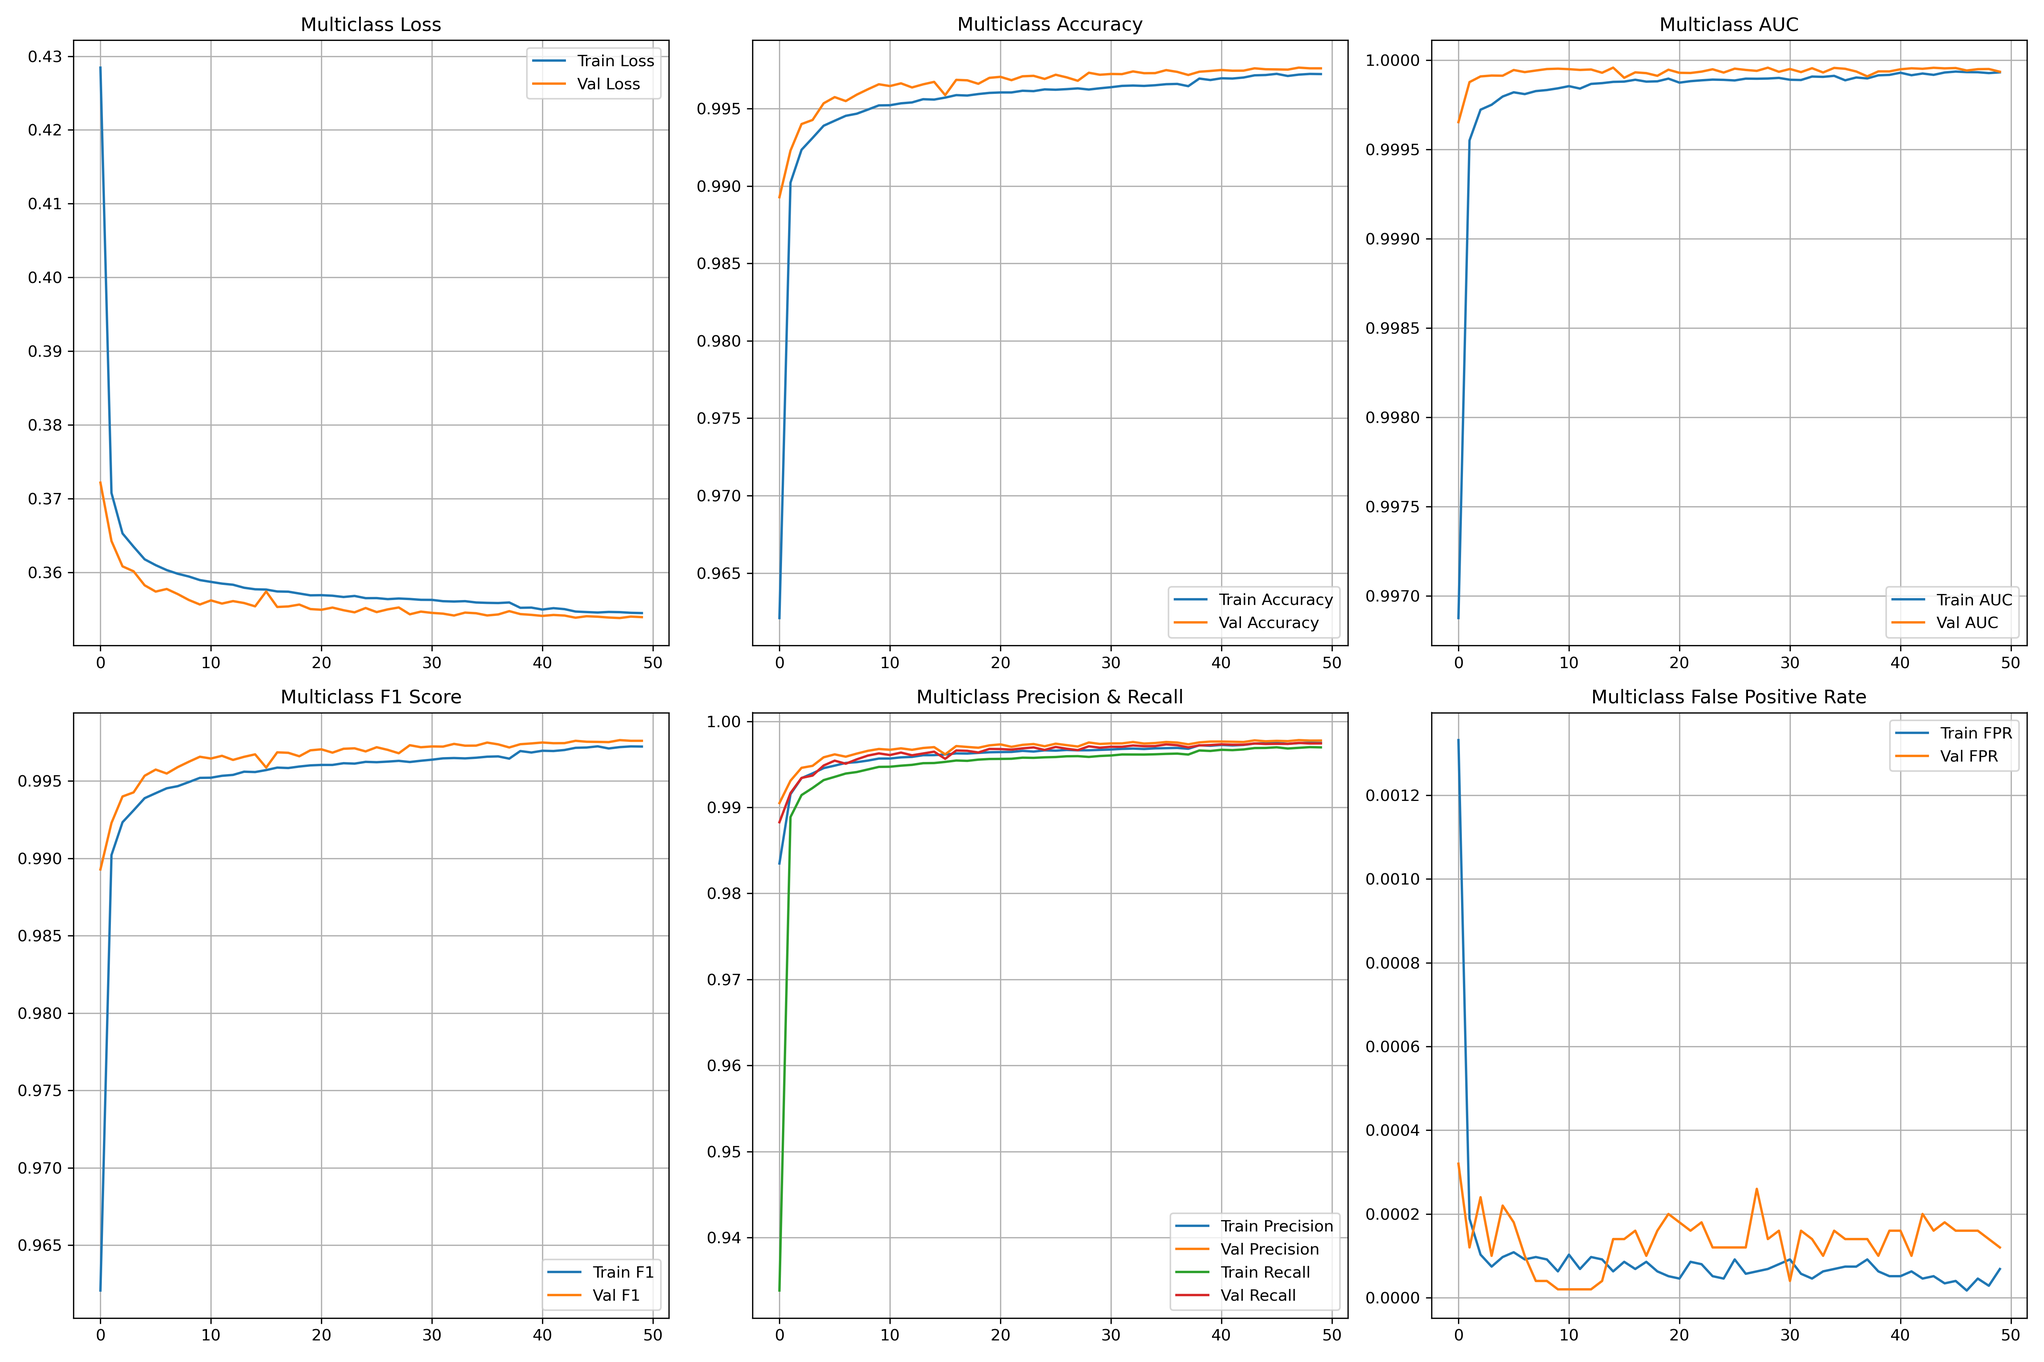
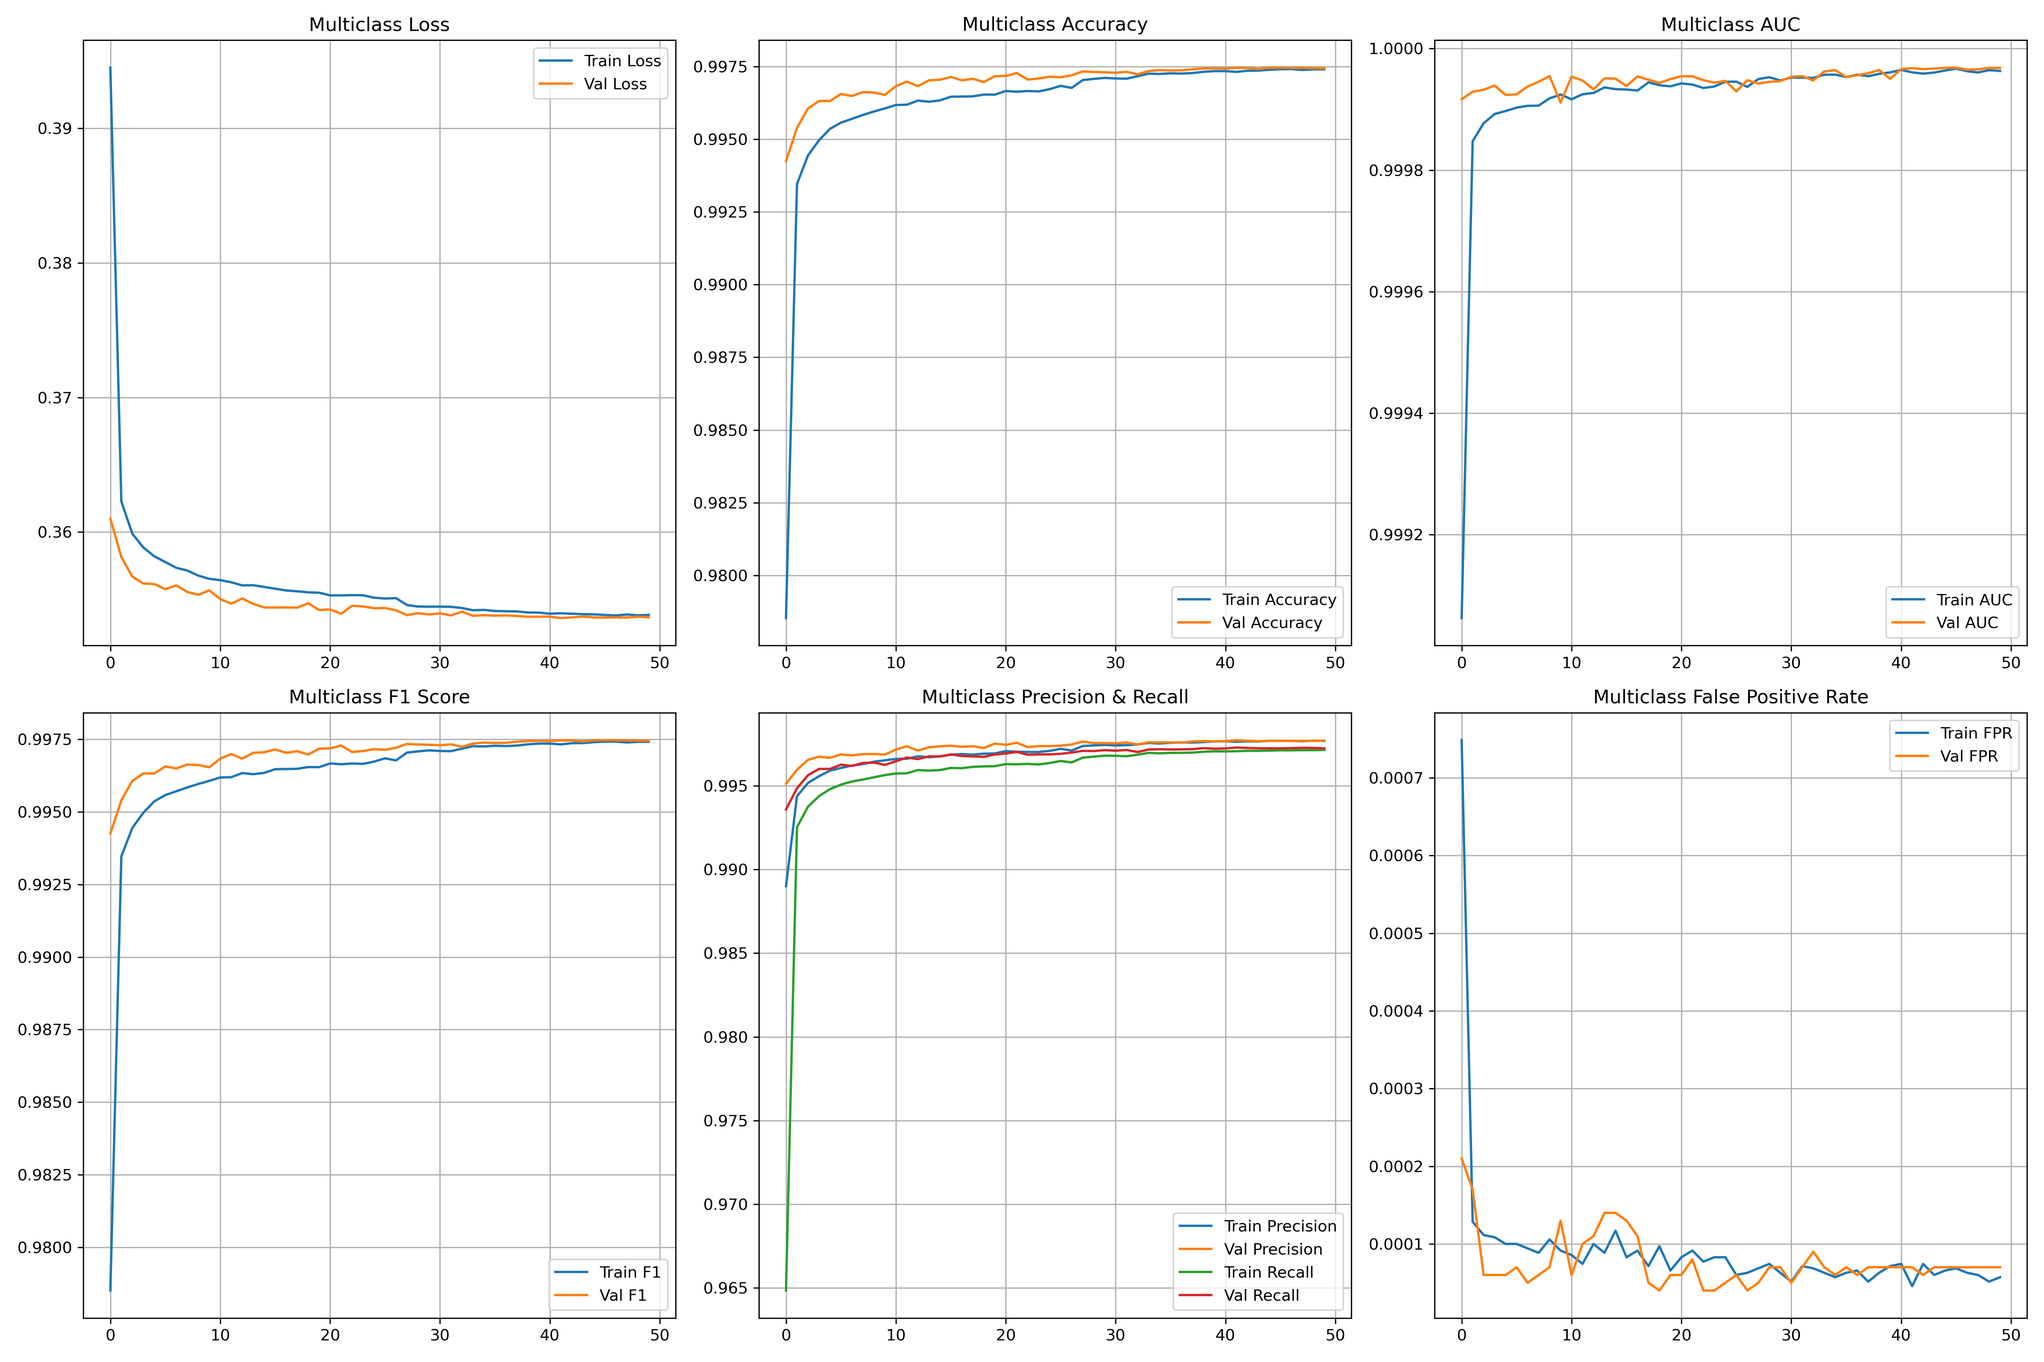
Refactor data splitting logic to support "max" size option and improve CSV saving functionality, updated images

diff --git a/main-binary.py b/main-binary.py
@@ -7,8 +7,6 @@ from pathlib import Path
 import random
 from binaryFalsePositiveRate import BinaryFalsePositiveRate
 
-
-
 # Set up logging
 logging.basicConfig(level=logging.INFO, format='%(asctime)s - %(levelname)s - %(message)s')
 logger = logging.getLogger(__name__)
@@ -17,7 +15,7 @@ logger = logging.getLogger(__name__)
 class Config:
     # Dataset parameters
     NUM_FEATURES = 39
-    NUM_LINES = 250000
+    NUM_LINES = "max"
     BATCH_SIZE = 32
     DATA_FOLDER = f'proj/datasets/sized_data/binaryclass/{NUM_LINES}_lines'
     MODEL_PATH = 'proj/models/best_binary_model.keras'
@@ -36,8 +34,6 @@ class Config:
     
 # Ensure data folder exists
 cfg = Config()
-if not os.path.exists(cfg.DATA_FOLDER):
-    raise FileNotFoundError(f"Data folder not found: {cfg.DATA_FOLDER}")
 
 def check_class_distribution(dataset):
     """Check the distribution of classes in the dataset"""
@@ -83,7 +79,7 @@ def load_dataset():
     
     logger.info(f"Found {len(csv_files)} CSV files")
     
-    # Create dataset from CSV files - important to use drop_remainder=False initially
+    # Create dataset from CSV files
     dataset = tf.data.experimental.make_csv_dataset(
         csv_files,
         batch_size=cfg.BATCH_SIZE,
@@ -118,7 +114,7 @@ def preprocess_features(features, label):
     # Explicitly set shape to remove any None dimensions
     features_tensor.set_shape([None, 1, cfg.NUM_FEATURES])
     
-    # Convert string labels to binary (0 for BENIGN, 1 for everything else)
+    # Convert string labels to binary (0 for BENIGN, 1 for other attack classes)
     label_tensor = tf.cast(tf.where(label == 'BENIGN', 0, 1), tf.float32)
     
     # Reshape label to match the expected output shape for F1Score (batch_size, 1)
@@ -207,10 +203,9 @@ def prepare_datasets():
     # Analyze dataset statistics for potential issues
     stats = analyze_dataset_stats(preprocessed_dataset.batch(100).take(10))
     
-    # Normalize features
+    # Normalize features with robust statistics (if available)
     if use_robust_stats:
         try:
-            # Use robust statistics (median/IQR) for normalization
             # Collect some samples for calculating statistics
             all_features = []
             for features, _ in preprocessed_dataset.take(10000): # subset 
@@ -223,7 +218,7 @@ def prepare_datasets():
             median = tfp.stats.percentile(feature_tensor, 50.0, axis=0)
             q75 = tfp.stats.percentile(feature_tensor, 75.0, axis=0)
             q25 = tfp.stats.percentile(feature_tensor, 25.0, axis=0)
-            iqr = tf.maximum(q75 - q25, 1e-6)  # Ensure no division by zero
+            iqr = tf.maximum(q75 - q25, 1e-6)  # Avoid division by zero
             
             logger.info(f"Calculated robust statistics on {len(all_features)} samples")
             
@@ -287,7 +282,6 @@ def prepare_datasets():
         logger.info("Ensuring class balance across dataset splits...")
         
         # Convert to numpy for easier manipulation
-        # samples_list = [(x.numpy(), y.numpy()) for x, y in normalized_dataset.as_numpy_iterator()]
         samples_list = [(x.numpy(), y.numpy()) for x, y in normalized_dataset]
         
 
@@ -347,7 +341,7 @@ def prepare_datasets():
         shuffled_dataset = normalized_dataset.shuffle(
             buffer_size=cfg.SHUFFLE_BUFFER, 
             reshuffle_each_iteration=True,
-            seed=42  # Set seed for reproducibility
+            seed=42  # Set seed for deterministic results
         )
         
         # Calculate dataset size and splits
@@ -389,7 +383,7 @@ def prepare_datasets():
         class_weights = None
         logger.warning("Could not compute class weights - missing classes in distribution")
     
-    # Batch the datasets - with drop_remainder=True to ensure consistent shapes
+    # Batch the datasets
     train_dataset = train_dataset.batch(cfg.BATCH_SIZE, drop_remainder=True)
     val_dataset = val_dataset.batch(cfg.BATCH_SIZE, drop_remainder=True)
     test_dataset = test_dataset.batch(cfg.BATCH_SIZE, drop_remainder=True)
@@ -586,6 +580,7 @@ def plot_training_history(history):
     plt.title("Binary Accuracy")
     plt.xlabel("Epoch")
     plt.ylabel("Accuracy")
+    plt.ylim(.9998, 1)
     plt.legend()
     plt.grid(True)
     plt.tight_layout()
@@ -615,6 +610,7 @@ def plot_training_history(history):
         plt.title("Binary F1 Score")
         plt.xlabel("Epoch")
         plt.ylabel("F1 Score")
+        plt.ylim(.9998, 1)  
         plt.legend()
         plt.grid(True)
         plt.tight_layout()
@@ -631,6 +627,7 @@ def plot_training_history(history):
         plt.title("Binary Precision and Recall")
         plt.xlabel("Epoch")
         plt.ylabel("Score")
+        plt.ylim(.9998, 1)  
         plt.legend()
         plt.grid(True)
         plt.tight_layout()
@@ -666,6 +663,7 @@ def plot_training_history(history):
     axs[0, 1].plot(history.history['accuracy'], label="Train Accuracy")
     axs[0, 1].plot(history.history['val_accuracy'], label="Val Accuracy")
     axs[0, 1].set_title("Binary Accuracy")
+    axs[0, 1].set_ylim(.9998, 1)  
     axs[0, 1].legend()
     axs[0, 1].grid(True)
     
@@ -685,6 +683,7 @@ def plot_training_history(history):
         axs[1, 0].plot(history.history['f1_score'], label="Train F1")
         axs[1, 0].plot(history.history['val_f1_score'], label="Val F1")
         axs[1, 0].set_title("Binary F1 Score")
+        axs[1, 0].set_ylim(.9998, 1)  
         axs[1, 0].legend()
         axs[1, 0].grid(True)
     else:
@@ -697,6 +696,7 @@ def plot_training_history(history):
         axs[1, 1].plot(history.history['recall'], label="Train Recall")
         axs[1, 1].plot(history.history['val_recall'], label="Val Recall")
         axs[1, 1].set_title("Binary Precision & Recall")
+        axs[1, 1].set_ylim(.9998, 1)  
         axs[1, 1].legend()
         axs[1, 1].grid(True)
     else:
@@ -728,7 +728,7 @@ def main():
                 tf.config.experimental.set_memory_growth(device, True)
             logger.info(f"Found {len(physical_devices)} GPU(s), memory growth enabled")
         
-        # Set up deterministic behavior as much as possible
+        # Set up deterministic behavior (as much as possible)
         tf.random.set_seed(42)
         np.random.seed(42)
         random.seed(42)

diff --git a/dataTreatment/createSplitsBinaryClass.py b/dataTreatment/createSplitsBinaryClass.py
@@ -9,7 +9,7 @@ directories = {
 }
 
 # Define the sizes to split into
-sizes = [10000, 100000, 250000, 500000, 750000]
+sizes = ["max"]
 
 max_size = 250000
 
@@ -49,30 +49,62 @@ def create_balanced_folders(directories, sizes):
         size_folder = os.path.join(base_output_dir, f"{size}_lines")
         os.makedirs(size_folder, exist_ok=True)
 
-        # Ensure there's enough data for the current size
-        if len(benign_df) < size or len(greeth_df) < size // 3 or len(greip_df) < size // 3 or len(udpplain_df) < size // 3:
-            print(f"Warning: Not enough data for size {size}. Required: {size}, Available: Benign: {len(benign_df)}, GREETH: {len(greeth_df)}, GREIP: {len(greip_df)}, UDPPLAIN: {len(udpplain_df)}")
-            continue
+        # Handle special case for "max" size
+        if size == "max":
+            # Use all available data
+            benign_split_df = benign_df
+            
+            # For malicious data, take all available data for each type
+            greeth_split_df = greeth_df
+            greip_split_df = greip_df
+            udpplain_split_df = udpplain_df
+            
+            print(f"Using maximum available data for each category:")
+            print(f"  - Benign: {len(benign_df)} lines")
+            print(f"  - GREETH: {len(greeth_df)} lines")
+            print(f"  - GREIP: {len(greip_df)} lines")
+            print(f"  - UDPPLAIN: {len(udpplain_df)} lines")
+        else:
+            # Ensure there's enough data for the current size
+            if len(benign_df) < size or len(greeth_df) < size // 3 or len(greip_df) < size // 3 or len(udpplain_df) < size // 3:
+                print(f"Warning: Not enough data for size {size}. Required: {size}, Available: Benign: {len(benign_df)}, GREETH: {len(greeth_df)}, GREIP: {len(greip_df)}, UDPPLAIN: {len(udpplain_df)}")
+                continue
 
-        # Take the first x lines for benign traffic
-        benign_split_df = benign_df.head(size)
+            # Take the first x lines for benign traffic
+            benign_split_df = benign_df.head(size)
 
-        # Take the first x/3 lines for each malicious traffic type
-        greeth_split_df = greeth_df.head(size // 3)
-        greip_split_df = greip_df.head(size // 3)
-        udpplain_split_df = udpplain_df.head(size // 3)
+            # Take the first x/3 lines for each malicious traffic type
+            greeth_split_df = greeth_df.head(size // 3)
+            greip_split_df = greip_df.head(size // 3)
+            udpplain_split_df = udpplain_df.head(size // 3)
 
         # Combine all malicious traffic
         malicious_split_df = pd.concat([greeth_split_df, greip_split_df, udpplain_split_df], ignore_index=True)
 
-        # Save the split data to CSV files
-        benign_output_file = os.path.join(size_folder, f"benign_{size}_lines.csv")
-        benign_split_df.to_csv(benign_output_file, index=False)
-        print(f"Saved {benign_output_file} with {len(benign_split_df)} lines")
+        # Save the benign data to one or more CSV files
+        save_dataframe_to_files(benign_split_df, size_folder, f"benign_{size}_lines")
+        
+        # Save the malicious data to one or more CSV files
+        save_dataframe_to_files(malicious_split_df, size_folder, f"malign_{size}_lines")
 
-        malicious_output_file = os.path.join(size_folder, f"malign_{size}_lines.csv")
-        malicious_split_df.to_csv(malicious_output_file, index=False)
-        print(f"Saved {malicious_output_file} with {len(malicious_split_df)} lines")
+# Function to save a dataframe to one or more CSV files based on size
+def save_dataframe_to_files(df, folder, base_filename):
+    if len(df) <= max_size:
+        # For smaller sizes, save to a single file
+        output_file = os.path.join(folder, f"{base_filename}.csv")
+        df.to_csv(output_file, index=False)
+        print(f"Saved {output_file} with {len(df)} lines")
+    else:
+        # For larger sizes, split into multiple files
+        num_files = (len(df) // max_size) + (1 if len(df) % max_size > 0 else 0)
+        for i in range(num_files):
+            start_idx = i * max_size
+            end_idx = start_idx + max_size
+            chunk_df = df[start_idx:end_idx]
+
+            output_file = os.path.join(folder, f"{base_filename}_part_{i+1}.csv")
+            chunk_df.to_csv(output_file, index=False)
+            print(f"Saved {output_file} with {len(chunk_df)} lines")
 
 # Run the function
 create_balanced_folders(directories, sizes)

diff --git a/dataTreatment/createSplitsMultiClass.py b/dataTreatment/createSplitsMultiClass.py
@@ -10,11 +10,11 @@ directories = {
 }
 
 # Define the sizes to split into
-sizes = [500000, 750000]
+sizes = ["max"]
 
 max_size = 250000
 
-# Function to read and combine all CSV files in a directory (using chunks for large files)
+#  Function to read and combine all CSV files in a directory (using chunks for large files)
 def read_and_combine_csvs(directory):
     all_files = [os.path.join(directory, f) for f in os.listdir(directory) if f.endswith('.csv')]
     combined_df = pd.DataFrame()
@@ -35,7 +35,7 @@ def read_and_combine_csvs(directory):
 # Function to create folders with exactly x lines of each traffic type
 def create_sized_folders(directories, sizes):
     # Create a base output directory
-    base_output_dir = "proj/datasets/sized_data/binary"
+    base_output_dir = "proj/datasets/sized_data/multiclass"
     os.makedirs(base_output_dir, exist_ok=True)
 
     # Process each size
@@ -48,24 +48,31 @@ def create_sized_folders(directories, sizes):
         for category, directory in directories.items():
             # Read and combine all CSV files for the current traffic type
             combined_df = read_and_combine_csvs(directory)
+            
+            # Handle special case for "max" size
+            if size == "max":
+                split_df = combined_df  # Use all available data
+                actual_size = len(combined_df)
+                print(f"Using maximum available data for {category}: {actual_size} lines")
+            else:
+                # Ensure there's enough data for the current size
+                if len(combined_df) < size:
+                    print(f"Warning: Not enough data for {category}. Required: {size}, Available: {len(combined_df)}")
+                    continue
 
-            # Ensure there's enough data for the current size
-            if len(combined_df) < size:
-                print(f"Warning: Not enough data for {category}. Required: {size}, Available: {len(combined_df)}")
-                continue
-
-            # Take the first x lines
-            split_df = combined_df.head(size)
+                # Take the first x lines
+                split_df = combined_df.head(size)
+                actual_size = size
 
             # Save the split data to one or more CSV files
-            if size <= 10000:
+            if actual_size <= 10000:
                 # For smaller sizes, save to a single file
                 output_file = os.path.join(size_folder, f"{category}_{size}_lines.csv")
                 split_df.to_csv(output_file, index=False)
                 print(f"Saved {output_file} with {len(split_df)} lines")
             else:
                 # For larger sizes, split into multiple files
-                num_files = (size // max_size) + 1  # Split into 100k-line files
+                num_files = (actual_size // max_size) + (1 if actual_size % max_size > 0 else 0)
                 for i in range(num_files):
                     start_idx = i * max_size
                     end_idx = start_idx + max_size

diff --git a/main-multiclass.py b/main-multiclass.py
@@ -5,7 +5,7 @@ import os
 import logging
 from pathlib import Path
 import random
-import traceback  # Ensure traceback is imported
+import traceback
 from multiclassFalsePositiveRate import MulticlassFalsePositiveRate
 
 # Set up logging
@@ -16,7 +16,7 @@ logger = logging.getLogger(__name__)
 class Config:
     # Dataset parameters
     NUM_FEATURES = 39
-    NUM_LINES = 250000
+    NUM_LINES = 500000
     BATCH_SIZE = 32
     DATA_FOLDER = f'proj/datasets/sized_data/multiclass/{NUM_LINES}_lines'
     MODEL_PATH = 'proj/models/best_multiclass_model.keras'
@@ -31,7 +31,7 @@ class Config:
     # Data processing
     SHUFFLE_BUFFER = 1000
     CLIP_VALUE = 10.0 
-    ENSURE_CLASS_BALANCE = True  # Keeping this for code consistency
+    ENSURE_CLASS_BALANCE = True
     
     # Multiclass specific
     NUM_CLASSES = 4  # 3 attack types + 1 benign class
@@ -42,7 +42,7 @@ def check_class_distribution(dataset):
     """Check the distribution of classes in the dataset"""
     labels = []
     
-    # Create a copy of the dataset to avoid consuming the original
+    # Create a copy of the dataset to avoid using the original
     dataset_copy = dataset.map(lambda x, y: (x, y))
     
     # Unbatch to get individual samples if batched
@@ -141,7 +141,7 @@ def prepare_datasets():
     mean_tensor = tf.constant(mean, dtype=tf.float32)
     std_tensor = tf.constant(std, dtype=tf.float32)
     
-    # Normalize the entire dataset
+    # Normalize the dataset
     normalized_dataset = preprocessed_dataset.map(
         lambda x, y: (tf.clip_by_value((x - mean_tensor) / std_tensor, -cfg.CLIP_VALUE, cfg.CLIP_VALUE), y)
     )
@@ -264,7 +264,7 @@ def train_model(model, train_dataset, val_dataset, class_weights=None):
         ),
         tf.keras.callbacks.TerminateOnNaN(),
         tf.keras.callbacks.TensorBoard(
-            log_dir='./logs',
+            log_dir='proj/logs',
             histogram_freq=1,
             update_freq='epoch'
         )
@@ -349,7 +349,7 @@ def evaluate_model(model, test_dataset, test_batches):
         plt.tight_layout()
         plt.ylabel('True label')
         plt.xlabel('Predicted label')
-        plt.savefig('multiclass_confusion_matrix.png', dpi=300)
+        plt.savefig('proj/src/results/multiclass_confusion_matrix.png', dpi=300)
         plt.close()
         
     except Exception as e:
@@ -446,8 +446,7 @@ def plot_training_history(history):
         plt.savefig('proj/src/results/multiclass_model_fpr.png', dpi=300)
         plt.close()
     
-    # Combined Grid Figure (2 x 3 grid)
-    # Top row: Loss, Accuracy, AUC; Bottom row: F1 Score, Precision/Recall, FPR.
+    # Grid Figure (2 x 3)
     fig, axs = plt.subplots(2, 3, figsize=(18, 12))
     
     # Loss graph (top-left)

diff --git a/dataTreatment/replaceLabels.py b/dataTreatment/replaceLabels.py
@@ -2,9 +2,9 @@ import pandas as pd
 import os
 
 # Define the base directory containing the subfolders with CSV files
-base_dir = 'proj/datasets/sized_data/multiclass'
+base_dir = 'proj/datasets/sized_data/multiclass/max_lines/'
 
-# Create a mapping of label values to numbers, ensuring 'BENIGN' is mapped to 0
+# Create a mapping of label values to numbers
 label_mapping = {'BENIGN': 0, 'MIRAI-GREIP-FLOOD': 1, 'MIRAI-GREETH-FLOOD': 2, 'MIRAI-UDPPLAIN': 3}
 
 # Iterate through all subfolders and CSV files
